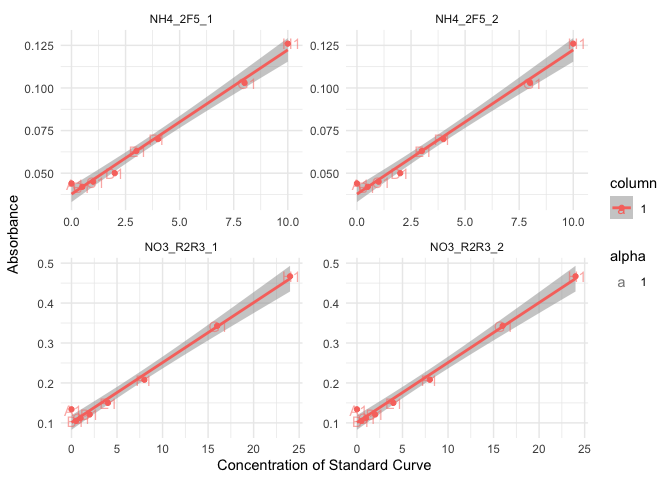
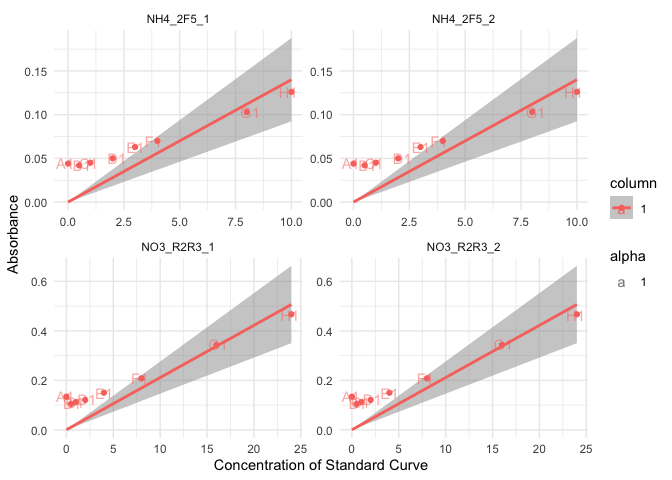
go on with implementation of Std curve QC

diff --git a/2.1.1_abs_data_QC.md b/2.1.1_abs_data_QC.md
@@ -581,13 +581,10 @@ abs_corrected
 
 ## 3.1 - QC standard curves
 
-Assumptions of a linear model:  
-(taken here:
-<https://towardsdatascience.com/all-the-statistical-tests-you-must-do-for-a-good-linear-regression-6ec1ac15e5d4/>,
-apparently from Spanish book Dalson [FIGUEIREDO FILHO, Felipe NUNES,
-Enivaldo CARVALHO DA ROCHA, Manoel LEORNARDO SANTOS, Mariana BATISTA e
-José Alexandre SILVA JUNIOR in Revista Política Hoje, Vol.20, n. 1,
-2001](https://periodicos.ufpe.br/revistas/politicahoje/article/download/3808/31622))
+Assumptions of a linear model: (taken
+[here](https://towardsdatascience.com/all-the-statistical-tests-you-must-do-for-a-good-linear-regression-6ec1ac15e5d4/),
+apparently from [Spanish
+book](https://periodicos.ufpe.br/revistas/politicahoje/article/download/3808/31622))
 
 - The residuals must follow a normal distribution.
 
@@ -613,6 +610,14 @@ José Alexandre SILVA JUNIOR in Revista Política Hoje, Vol.20, n. 1,
 
 !!! FORMULATE better and split in 2 chunks :-)
 
+First, we perform a linear model on each curve individually (i.e.,
+possibly several curves per plate).
+
+Then we take a subset to examine individually: those curves where the
+linear model doesn’t seem to perform ideally (e.g., non-significant
+model (p-value \> 0.05), residuals not normally distributed, or
+heteroscedasticity)
+
 ``` r
 lm_table_raw <- lm_std_curve(std_corrected |> group_by(plate_id, column))
 
@@ -622,21 +627,206 @@ lm_table_suspicious <- lm_table_raw |>
     normality_lm_residuals == "Normal" & 
       homoscedasticity_lm_residuals == "Homooscedasticity" &
       lm_p < 0.05)
+```
 
-# lm_data <- lm_table_suspicious 
-# std_df <- std_corrected
+Then, for visual support, we create a list of plots where we store each
+individual plot of “suspicious” standard curves
 
-
+``` r
 suspicious_lm_plotlist <- plot_list_lm(
   lm_data = lm_table_suspicious,
   std_data = std_corrected)
 
+# check one plot out
 suspicious_lm_plotlist$NH4_1F1_col1
 ```
 
-![](2.1.1_abs_data_QC_files/figure-commonmark/unnamed-chunk-26-1.png)
+![](2.1.1_abs_data_QC_files/figure-commonmark/unnamed-chunk-27-1.png)
+
+Now we can look at each plot individually. Because there are still 45
+plots to review, we will look through them in 3 batches of 15 plots.
+
+``` r
+n_plots <- length(suspicious_lm_plotlist)
+batch <- 15
+
+batch_1 <- suspicious_lm_plotlist |> head(n = batch)
+batch_2 <- suspicious_lm_plotlist |> tail(n = n_plots-batch) |> head(n = batch)
+batch_3 <- suspicious_lm_plotlist |> tail(n = n_plots-(2*batch)) 
+
+patchwork::wrap_plots(batch_1, axis_titles = "keep") +
+     patchwork::plot_annotation(title = "Plots of suspicious Standard curves")
+```
+
+![](2.1.1_abs_data_QC_files/figure-commonmark/unnamed-chunk-28-1.png)
+
+``` r
+patchwork::wrap_plots(batch_2, axis_titles = "keep") +
+     patchwork::plot_annotation(title = "Plots of suspicious Standard curves")
+```
+
+![](2.1.1_abs_data_QC_files/figure-commonmark/unnamed-chunk-28-2.png)
+
+``` r
+patchwork::wrap_plots(batch_3, axis_titles = "keep") +
+     patchwork::plot_annotation(title = "Plots of suspicious Standard curves")
+```
+
+![](2.1.1_abs_data_QC_files/figure-commonmark/unnamed-chunk-28-3.png)
+
+Most plates are from NH4 and NO2. Because most measurement of NH4 and
+NO2 are close to zero, it might be relevant to just remove highest
+points of the curve to get a better fit.
+
+Let’s check how high the absorbance goes with these data sets, for each
+N species. When comparing those highest values with the plots above, we
+see that the highest absorbance for NO2 and NH4 is far below the most
+concentrated point of the standard curve –\> we can remove row H for
+sure, but row G probably not.
+
+This is not the case for NO3, or at least not for the TDN dataset, or
+part of it.
+
+``` r
+abs_corrected |> filter(std_sp == "NO2") |> 
+  arrange(desc(abs_corrected)) |> slice_head(n = 3)
+```
+
+    # A tibble: 3 × 14
+      row   column well_id unique_well_id dataset  plate_id map      abs_corrected
+      <chr> <chr>  <chr>   <chr>          <chr>    <chr>    <chr>            <dbl>
+    1 A     2      A2      A2_NO2_1F5     Nmint1t2 NO2_1F5  Std_3_t1         0.177
+    2 C     2      C2      C2_NO2_1F5     Nmint1t2 NO2_1F5  Std_3_t1         0.174
+    3 D     2      D2      D2_NO2_1F5     Nmint1t2 NO2_1F5  Std_3_t1         0.173
+    # ℹ 6 more variables: std_sp <chr>, std_conc <chr>, std_unit <chr>,
+    #   sample_dilution <chr>, extr_sdev <dbl>, extr_coeff_var_percent <dbl>
+
+``` r
+abs_corrected |> filter(std_sp == "NH4") |> 
+  arrange(desc(abs_corrected)) |> slice_head(n = 3)
+```
+
+    # A tibble: 3 × 14
+      row   column well_id unique_well_id dataset plate_id   map       abs_corrected
+      <chr> <chr>  <chr>   <chr>          <chr>   <chr>      <chr>             <dbl>
+    1 A     6      A6      A6_NH4_R2R3_1  Nmint3  NH4_R2R3_1 std_R2_t3        0.0384
+    2 B     6      B6      B6_NH4_R2R3_1  Nmint3  NH4_R2R3_1 std_R2_t3        0.0384
+    3 C     6      C6      C6_NH4_R2R3_1  Nmint3  NH4_R2R3_1 std_R2_t3        0.0374
+    # ℹ 6 more variables: std_sp <chr>, std_conc <chr>, std_unit <chr>,
+    #   sample_dilution <chr>, extr_sdev <dbl>, extr_coeff_var_percent <dbl>
+
+Let’s first list wells to remove the H row of NO2 and NH4 std.
+
+``` r
+to_remove_nh4_no2_h <- std_corrected |> 
+  filter(
+    std_sp %in% c("NH4", "NO2"),
+    row == "H") |> 
+  select(dataset, plate_id, well_id)
+```
+
+Then, let’s look at suspicious plots for NO3 only, so we can see the
+plots better
+
+``` r
+lm_table_suspicious_NO3 <- lm_table_suspicious |> 
+  # extract N_sp from plate name. May be done differently, this is just one of many possible approaches
+  separate_wider_delim(
+    cols = unique_curve_id, delim = "_", 
+    names = c("N_sp", "rest"), 
+    too_many = "merge", cols_remove = FALSE) |> 
+  select(!rest) |> 
+  filter(N_sp == "NO3")
+
+# Create plot list
+lm_plot_list_NO3 <- plot_list_lm(
+  lm_data = lm_table_suspicious_NO3,
+  std_data = std_corrected)
+
+patchwork::wrap_plots(lm_plot_list_NO3, axis_titles = "keep") +
+     patchwork::plot_annotation(title = "Plots of suspicious Standard curves")
+```
+
+![](2.1.1_abs_data_QC_files/figure-commonmark/unnamed-chunk-31-1.png)
+
+For the NO3 plates, the issue has to be solved differently, but those
+are just a few –\> individual appraisal. We see here that, even out of
+TDN, we cannot remove the H row, because some points seem to have an
+absorbance close to that of the H row of the standard.
+
+``` r
+abs_corrected |> filter(std_sp == "NO3", dataset != "TDN") |> 
+  arrange(desc(abs_corrected)) |> slice_head(n = 3)
+```
+
+    # A tibble: 3 × 14
+      row   column well_id unique_well_id dataset  plate_id  map       abs_corrected
+      <chr> <chr>  <chr>   <chr>          <chr>    <chr>     <chr>             <dbl>
+    1 H     3      H3      H3_NO3_2F6_1   Nmint1t2 NO3_2F6_1 110_t2_M…         0.329
+    2 H     10     H10     H10_NO3_2F6_2  Nmint1t2 NO3_2F6_2 110_t2_M…         0.326
+    3 E     10     E10     E10_NO3_2F6_2  Nmint1t2 NO3_2F6_2 110_t2_M…         0.317
+    # ℹ 6 more variables: std_sp <chr>, std_conc <chr>, std_unit <chr>,
+    #   sample_dilution <chr>, extr_sdev <dbl>, extr_coeff_var_percent <dbl>
+
+Once that is done –\> go through another iteration of remove_wells().
+
+Then re-compute linear model table as “clean” version.
+
+Then apply it
+
+``` r
+#** TO BE COMPLETED WITH WELLS TO REMOVE FOR NO3 SUSPICIOUS CURVES *
+#*
+
+std_corrected_wash1 <- 
+  std_corrected |> remove_wells(to_remove_nh4_no2_h)
+```
+
+Run the quality check once more
+
+``` r
+lm_table_wash1 <- lm_std_curve(std_corrected_wash1 |> group_by(plate_id, column))
+
+# extract all plates where "something" is not perfect 
+lm_table_suspicious_wash1 <- lm_table_wash1 |> 
+  filter_out(
+    normality_lm_residuals == "Normal" & 
+      homoscedasticity_lm_residuals == "Homooscedasticity" &
+      lm_p < 0.05)
+
+suspicious_lm_plotlist_wash1 <- plot_list_lm(
+  lm_data = lm_table_suspicious_wash1,
+  std_data = std_corrected_wash1)
+
+n_plots <- length(suspicious_lm_plotlist_wash1)
+batch <- 15
+
+batch_1 <- suspicious_lm_plotlist_wash1 |> head(n = batch)
+batch_2 <- suspicious_lm_plotlist_wash1 |> tail(n = n_plots-batch) |> head(n = batch)
+
+patchwork::wrap_plots(batch_1, axis_titles = "keep") +
+     patchwork::plot_annotation(title = "Plots of suspicious Standard curves")
+```
+
+![](2.1.1_abs_data_QC_files/figure-commonmark/unnamed-chunk-34-1.png)
+
+``` r
+patchwork::wrap_plots(batch_2, axis_titles = "keep") +
+     patchwork::plot_annotation(title = "Plots of suspicious Standard curves")
+```
+
+![](2.1.1_abs_data_QC_files/figure-commonmark/unnamed-chunk-34-2.png)
 
 # TO DO
+
+!!! FOR TDN !!!
+
+- CHECK Std curve concentrations !!!
+
+- Check how high is the highest absorbance value of 2x diluted samples
+  for NO3 –\> can we remove H row?
+
+Other, coding
 
 - Linear model for standard curves (and further QC)
 